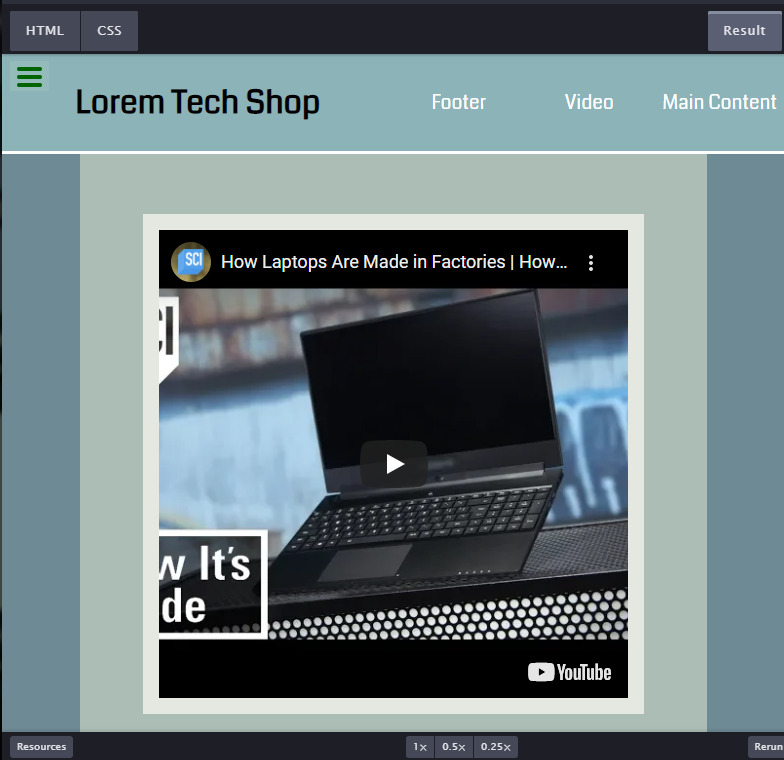
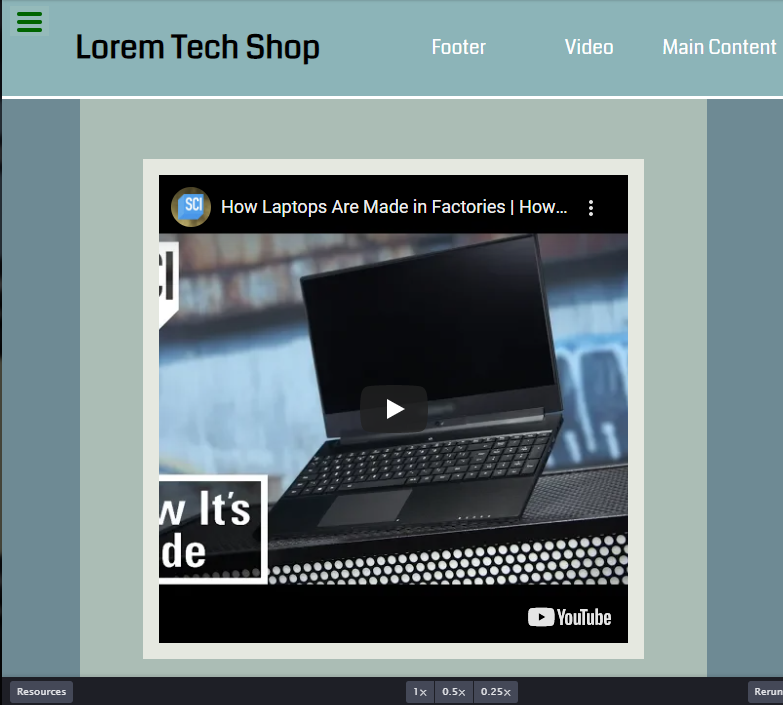
hover effect minor changes

diff --git a/main/main.css b/main/main.css
@@ -300,14 +300,18 @@ body {
   align-items: center;
   justify-content: center;
   background-color: #fff;
-  box-shadow: 5px 5px 20px #666666;
+  box-shadow: 5px 5px 20px #585858;
   width: 20rem;
   height: auto;
+  margin-top: 3rem;
+  transition: ease-in-out 0.3s;
 }
 .projects-container .project-div img {
   width: inherit;
   height: 500px;
   object-fit: cover;
+  border: 15px solid #fff;
+  border-radius: 20px;
 }
 .projects-container .project-div h3 {
   text-align: center;
@@ -320,8 +324,12 @@ body {
 .projects-container .project-div hr {
   width: 50%;
 }
-.projects-container .project-div a:active {
-  color: red;
+.projects-container .project-div a {
+  text-decoration: none;
+  color: #430ba3;
+}
+.projects-container .project-div:hover {
+  transform: translateY(-5%);
 }
 
 /*# sourceMappingURL=main.css.map */

diff --git a/main/index.html b/main/index.html
@@ -36,7 +36,10 @@
       <!-- hero-text -->
       <div class="flex-container">
         <div class="hero-div">
-          <h1>Hunor Bartha</h1>
+          <h1>
+            <span id="firstName">Hunor</span>
+            <span id="lastName">Bartha</span>
+          </h1>
           <p>Frontend Developer</p>
           <div class="button-div">About me</div>
         </div>
@@ -149,7 +152,7 @@
         </div>
         <div class="project-div">
           <img src="../img/technicalDocPage.png" alt="Product Landing Page" />
-          <h3>Technical Documentation Page</h3>
+          <h3>Technical Documentation</h3>
           <p>
             Lorem ipsum dolor sit amet consectetur adipisicing elit. Ducimus
             itaque necessitatibus placeat molestiae. Itaque magni, deserunt aut

diff --git a/scss/style.scss b/scss/style.scss
@@ -252,13 +252,16 @@ body {
   .project-div {
     @include flexColCenter;
     background-color: #fff;
-    box-shadow: 5px 5px 20px rgb(102, 102, 102);
+    box-shadow: 5px 5px 20px rgb(88, 88, 88);
     width: 20rem;
     height: auto;
+    margin-top: $marg3;
     img {
       width: inherit;
       height: 500px;
       object-fit: cover;
+      border: 15px solid #fff;
+      border-radius: 20px;
     }
     h3 {
       text-align: center;
@@ -271,8 +274,13 @@ body {
     hr {
       width: 50%;
     }
-    a:active {
-      color: red;
+    a {
+      text-decoration: none;
+      color: $color2;
+    }
+    transition: ease-in-out 0.3s;
+    &:hover {
+      transform: translateY(-5%);
     }
   }
 }
